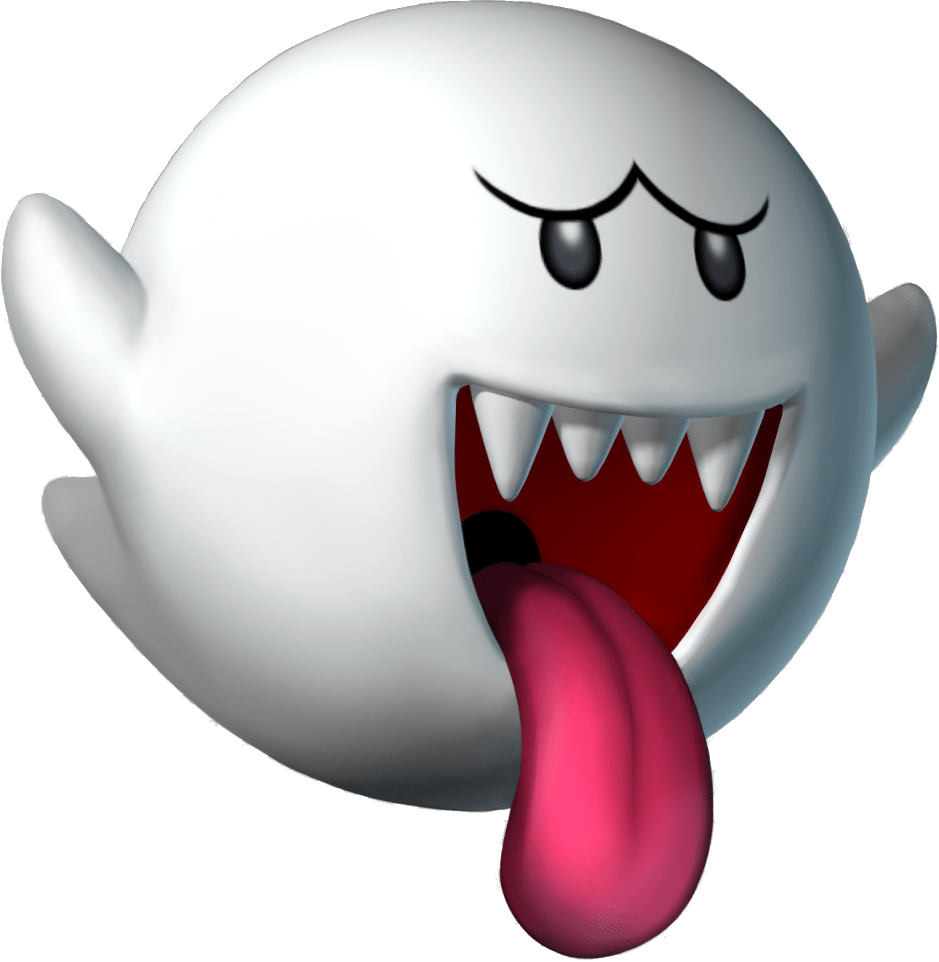
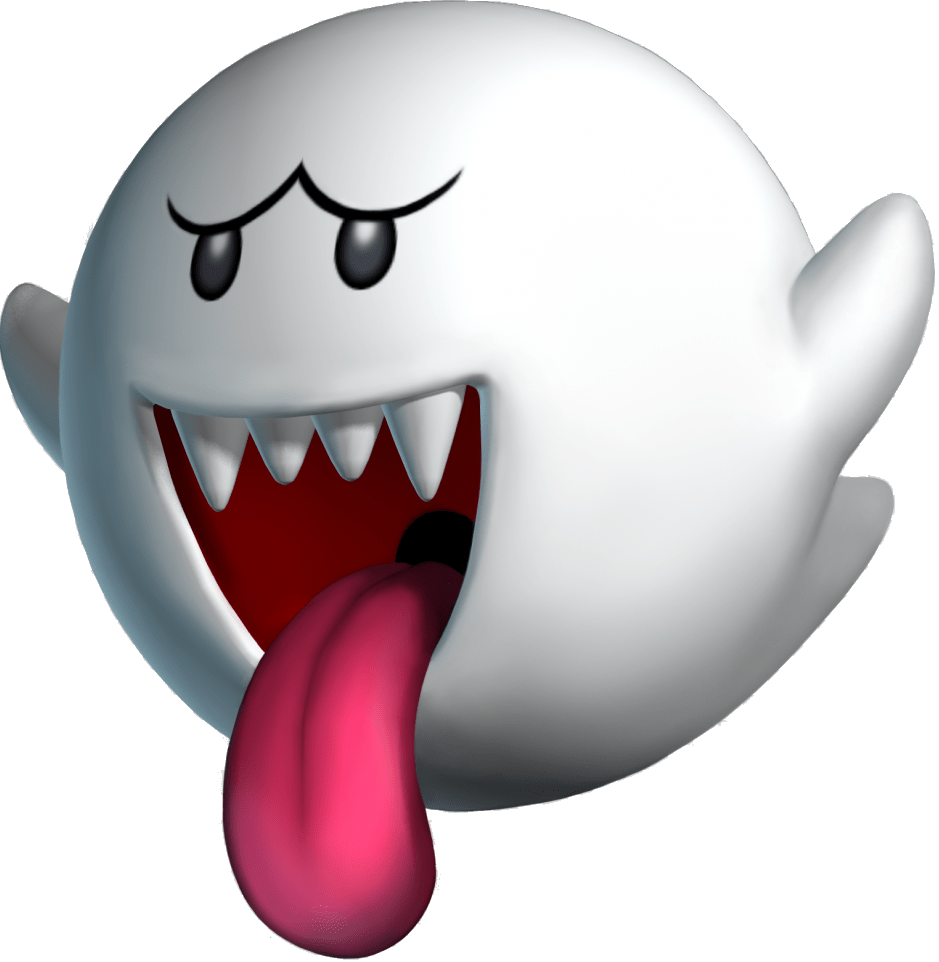
Added images to rewards, enemy, and obstacles

diff --git a/projects/runtime/js/level01.js b/projects/runtime/js/level01.js
@@ -47,7 +47,13 @@ var level01 = function (window) {
             sawBladeHitZone.y = y; // The y value of the hitzone
             game.addGameItem(sawBladeHitZone); // Adds the hitzone to the game
             
-            var obstacleImage = draw.bitmap('img/sawblade.png'); // Draws the image and stores it in the viarble obstacleImagine
+            var obstacleImage = draw.bitmap('../../../Images/spikeobstaclemario.png'); // Draws the image and stores it in the viarble obstacleImagine
+            sawBladeHitZone.addChild(obstacleImage); // Adds the image to the hitzone so we can see it
+            obstacleImage.x = -25; // Lines up the x of the imgage with the hitzone
+            obstacleImage.y = -25; // Lines up the y of the imgage with the hitzone 
+            sawBladeHitZone.rotationalVelocity = 10; // Rotate the enemy image by 10 pixels
+
+            var obstacleImage = draw.bitmap('../../../Images/spikeobstabclemario.png'); // Draws the image and stores it in the viarble obstacleImagine
             sawBladeHitZone.addChild(obstacleImage); // Adds the image to the hitzone so we can see it
             obstacleImage.x = -25; // Lines up the x of the imgage with the hitzone
             obstacleImage.y = -25; // Lines up the y of the imgage with the hitzone 
@@ -55,17 +61,48 @@ var level01 = function (window) {
         }
     
         function createEnemy(x, y){
-            var enemy = game.createGameItem('enemy',25); // Creates the enemy game item and stores it in the varibale enemy
-            var redSquare = draw.rect(50,50,'red'); // Draws a red square and stores it in the variable redSquare
-            redSquare.x = -25; // Align the square hitzone x
-            redSquare.y = -25; // Align the square hitzone y
-            enemy.addChild(redSquare);
+            var enemy = game.createGameItem('enemy',15); // Creates the enemy game item and stores it in the varibale enemy
+            var enemyImage = draw.bitmap('../../../Images/booghostmario.png'); // Draws a Mario Ghost and stores it in the variable enemyImage
+            enemyImage.x = -35; // Align the square hitzone x
+            enemyImage.y = -25; // Align the square hitzone y
+            enemy.addChild(enemyImage);
 
             enemy.x = x;
             enemy.y = y;
+            enemyImage.scaleX = 0.10;
+            enemyImage.scaleY = 0.10;
+            game.addGameItem(enemy);
+            enemy.velocityX = -1; // Move the enemy 1 pixel to the left
+
+
+            var enemy = game.createGameItem('enemy',15); // Creates the enemy game item and stores it in the varibale enemy
+            var enemyImage = draw.bitmap('../../../Images/goombamushroom.png'); // Draws a Mario Mushroom and stores it in the variable enemyImage
+            enemyImage.x = -30; // Align the square hitzone x
+            enemyImage.y = -25; // Align the square hitzone y
+            enemy.addChild(enemyImage);
+
+            enemy.x = x;
+            enemy.y = y;
+            enemyImage.scaleX = 0.08;
+            enemyImage.scaleY = 0.08;
+            game.addGameItem(enemy);
+            enemy.velocityX = -1; // Move the enemy 1 pixel to the left
+
+
+            var enemy = game.createGameItem('enemy',15); // Creates the enemy game item and stores it in the varibale enemy
+            var enemyImage = draw.bitmap('../../../Images/piranhaplantmario.png'); // Draws a Mario Piranha Plant and stores it in the variable enemyImage
+            enemyImage.x = -30; // Align the square hitzone x
+            enemyImage.y = -25; // Align the square hitzone y
+            enemy.addChild(enemyImage);
+
+            enemy.x = x;
+            enemy.y = y;
+            enemyImage.scaleX = 0.08;
+            enemyImage.scaleY = 0.08;
             game.addGameItem(enemy);
             enemy.velocityX = -1; // Move the enemy 1 pixel to the left
             
+
             // This function detects if the enemy collides with Halle and executes health decrease
             enemy.onPlayerCollision = function() {
             game.changeIntegrity(-25) // Decreases your health
@@ -81,16 +118,32 @@ var level01 = function (window) {
         }
 
         function createReward(x, y){
-            var reward = game.createGameItem('reward',25); // Creates the enemy game item and stores it in the varibale enemy
-            var blueSquare = draw.rect(50,50,'blue'); // Draws a red square and stores it in the variable blueSquare
-            blueSquare.x = -25; // Align the square hitzone x
-            blueSquare.y = -25; // Align the square hitzone y
-            reward.addChild(blueSquare);
+            var reward = game.createGameItem('reward',15); // Creates the enemy game item and stores it in the varibale enemy
+            var rewardImage = draw.bitmap('../../../Images/mariocoin.png'); // Draws a red square and stores it in the variable blueSquare
+            rewardImage.x = -20; // Align the square hitzone x
+            rewardImage.y = -20; // Align the square hitzone y
+            reward.addChild(rewardImage);
 
             reward.x = x;
             reward.y = y;
+            rewardImage.scaleX = 0.05;
+            rewardImage.scaleY = 0.05;
             game.addGameItem(reward);
             reward.velocityX = -1; // Move the reward 1 pixel to the left
+
+            
+            var reward = game.createGameItem('reward',15); // Creates the enemy game item and stores it in the varibale enemy
+            var rewardImage = draw.bitmap('../../../Images/mariomushroom.png'); // Draws a red square and stores it in the variable blueSquare
+            rewardImage.x = -20; // Align the square hitzone x
+            rewardImage.y = -20; // Align the square hitzone y
+            reward.addChild(rewardImage);
+
+            reward.x = x;
+            reward.y = y;
+            rewardImage.scaleX = 0.05;
+            rewardImage.scaleY = 0.05;
+            game.addGameItem(reward);
+            reward.velocityX = -1; // Move the reward 1 pixel to the left 
             
             // This function detects if the reward collides with Halle and executes health decrease
             reward.onPlayerCollision = function() {
